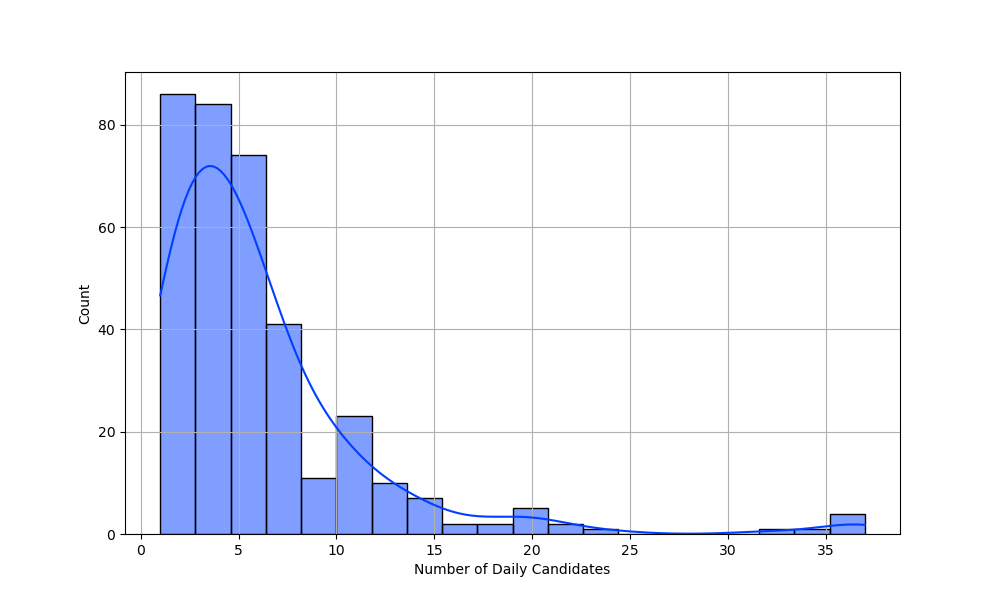
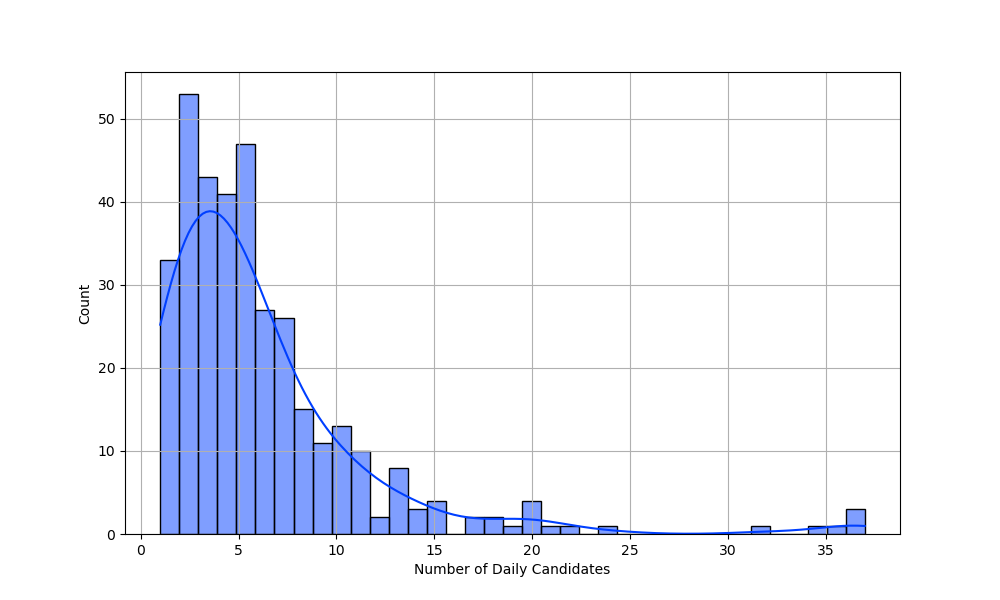
MAXIMUM OVERDRIVE (for 1 plot)
boosted the number of bins for numDailyCandHist to be equal to the highest value of the list containing the number of candidates each day. looks pretty decent

diff --git a/stats.py b/stats.py
@@ -336,7 +336,7 @@ def plotDailyCand(df, save=True):
 
     ## get number of candidates per day
 
-    numDaily = [len(df[df['day'] == day]['candPath'].unique()) for day in dayList]
+    numDaily = np.array([len(df[df['day'] == day]['candPath'].unique()) for day in dayList])
     print('numDaily: %s'%numDaily) if args.verbose else None
     print() if args.verbose else None
     
@@ -349,7 +349,7 @@ def plotDailyCand(df, save=True):
     
     ## plot histogram of number of candidates per day
     fig, ax = plt.subplots(figsize=(10,6), facecolor='white')
-    sns.histplot(numDaily, kde=True, bins=20, ax=ax) ## could fine tune the number of bins
+    sns.histplot(numDaily, kde=True, bins=numDaily.max(), ax=ax) ## could fine tune the number of bins
     ax.set_xlabel("Number of Daily Candidates")
     ax.set_ylabel('Count')
     plt.savefig(plotDir("numDailyCandHist")) if save else None
